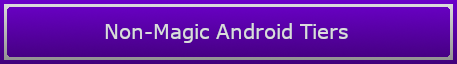
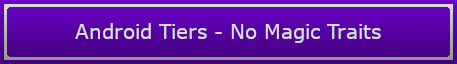
Update name, preview, and add a readme.

Changed region(s): [[0.1532, 0.3438, 0.8578, 0.6875]]

diff --git a/Readme.md b/Readme.md
@@ -1,0 +1,8 @@
+# Android Tiers - No Magic Traits
+This is a simple patch that disallows Androids from [Android Tiers](https://steamcommunity.com/workshop/filedetails/?id=1386412863) having Magic traits from [A Rimworld of Magic](https://steamcommunity.com/sharedfiles/filedetails/?id=1201382956).
+
+I've always felt robots having magic was a bit off in my game, so this was something I wanted to add as a bit of a QoL thing.
+
+## Requirements
+- Android Tiers
+- A Rimworld of Magic
